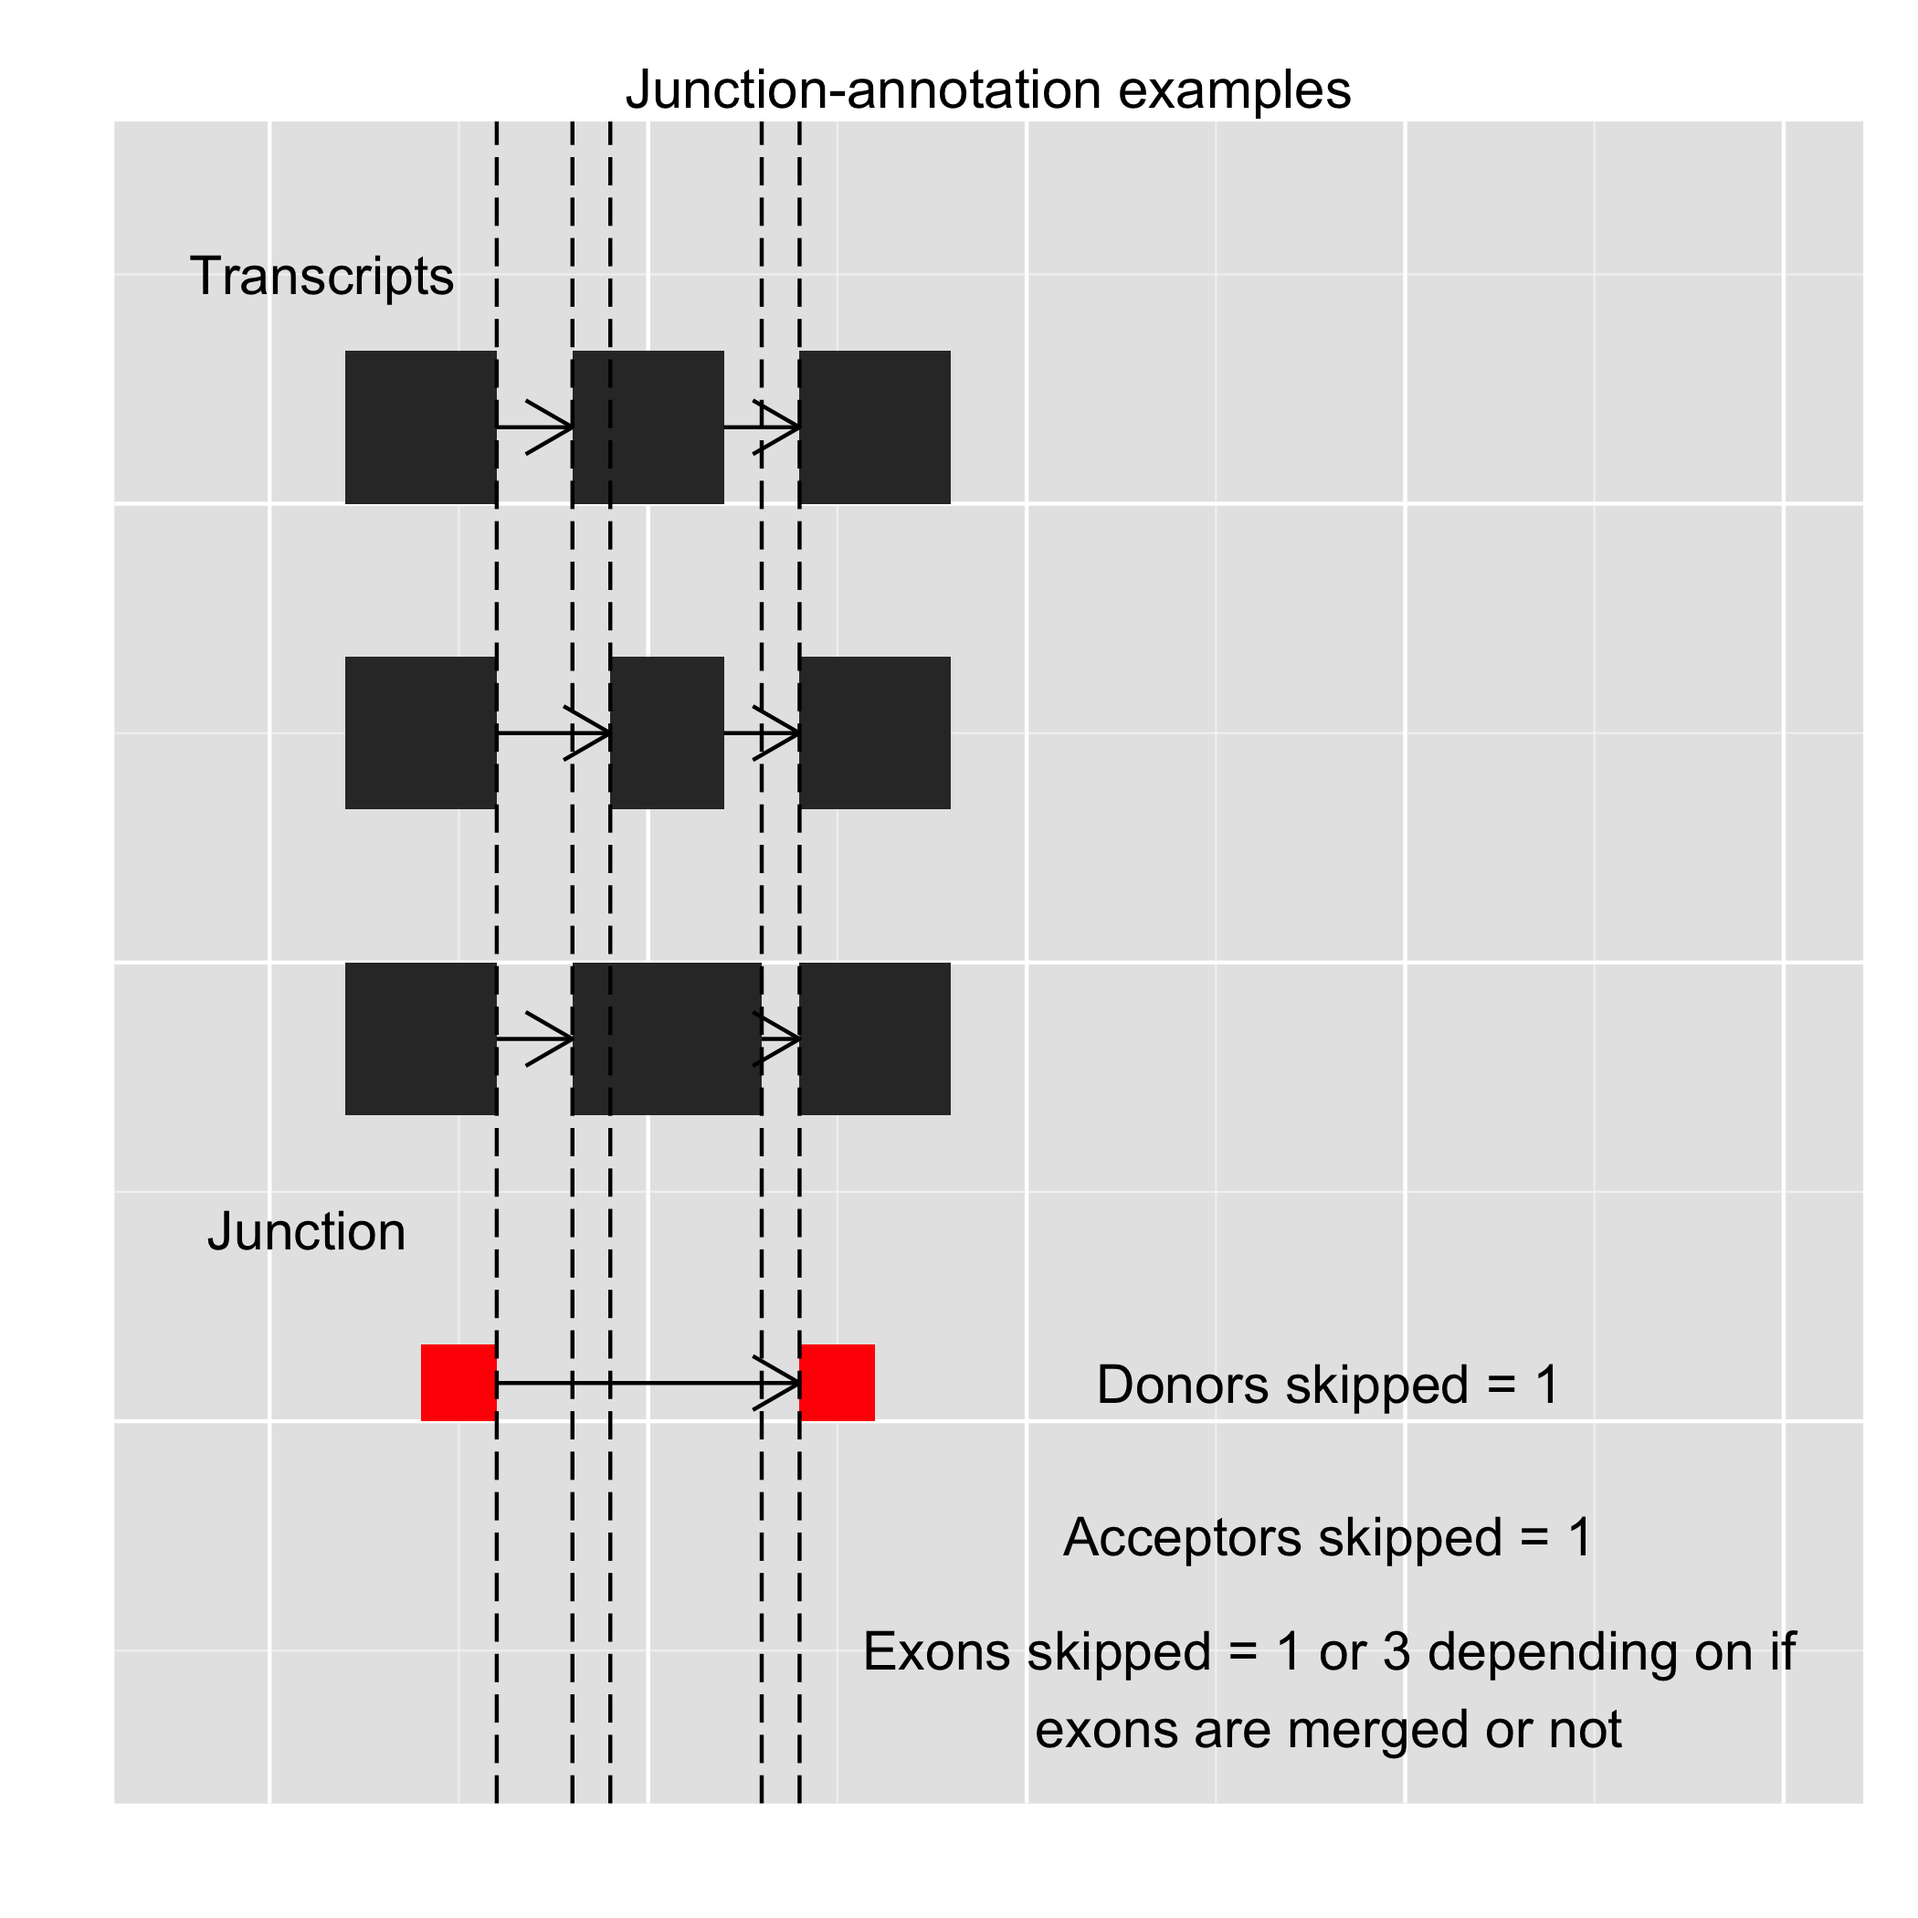
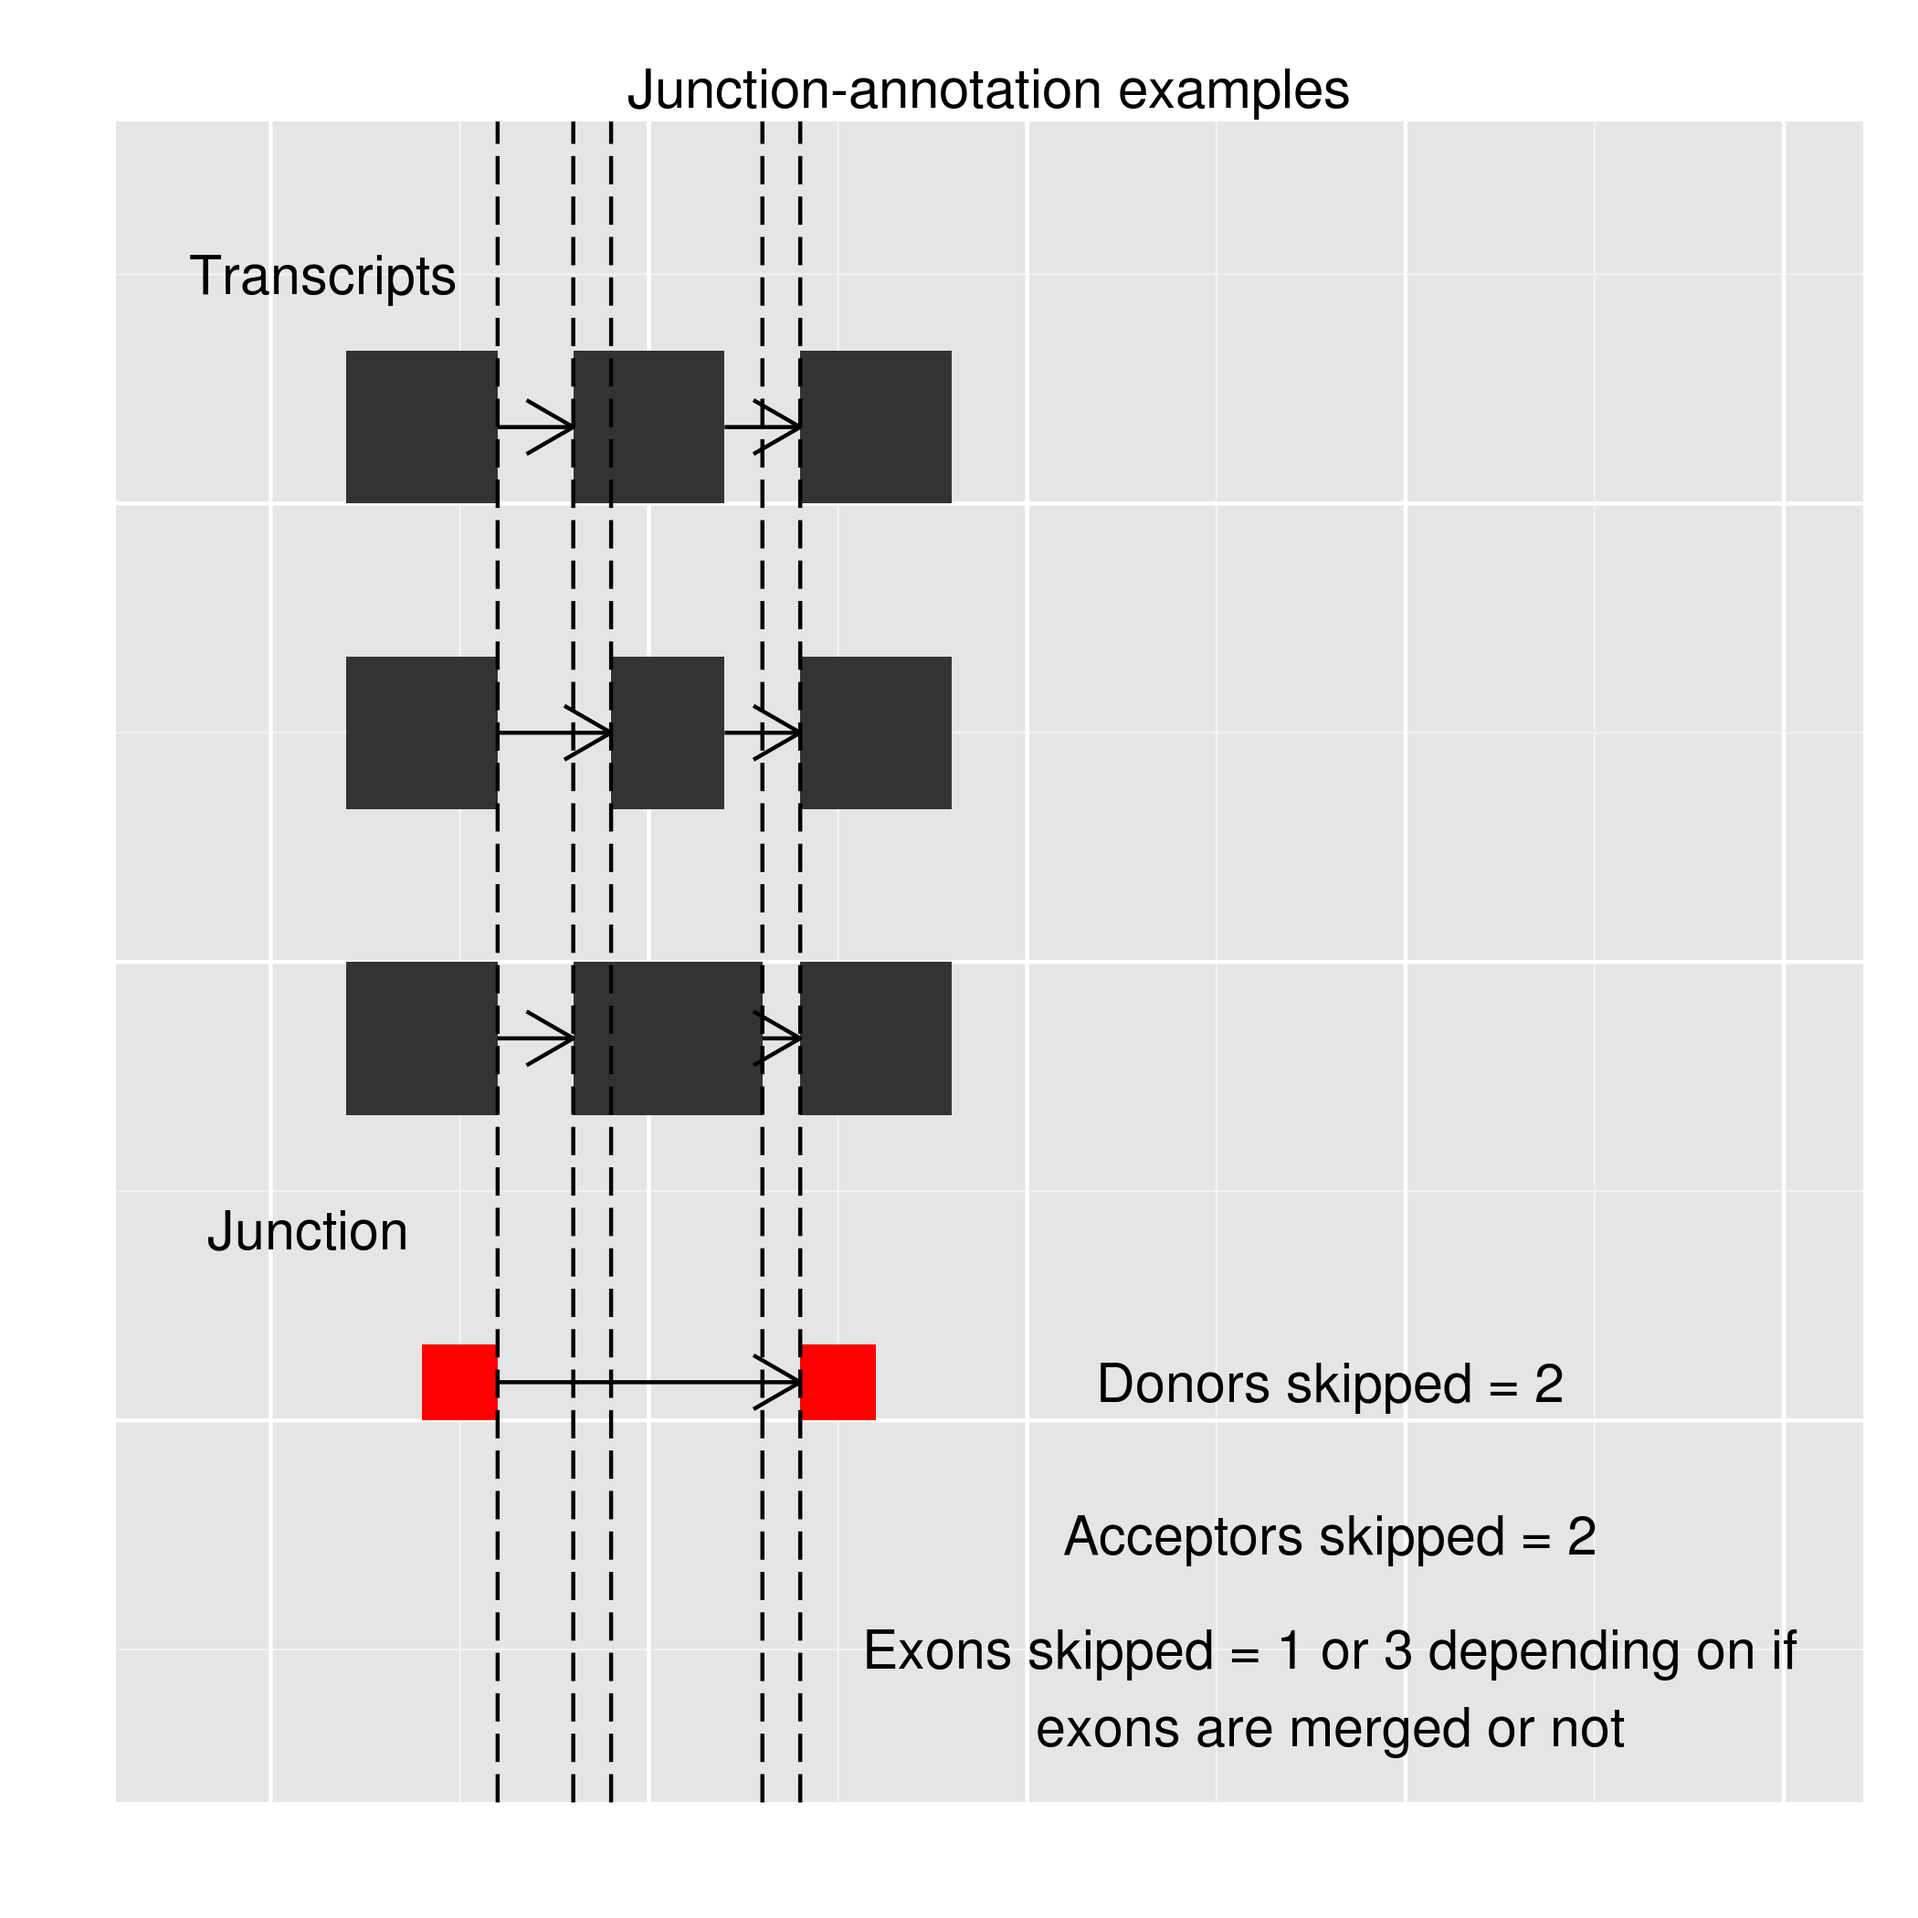
Update examples.

diff --git a/docs/examples.md b/docs/examples.md
@@ -42,8 +42,18 @@ The ends of this junction are hence not known donor/acceptor sites according to 
 
 ![Anchor-annotation example][anchor_annotation]
 
-####Annotating a junction
+####Annotating a junction with number of donors/acceptors/exons skipped
+Exon skipping is a form of RNA splicing that can be identified using RNAseq data. It is hence useful
+to compute for every observed putative exon-exon junction, the number of exons skipped, the number of
+known donor sites skipped and the number of known acceptor sites skipped. The known exons, donors and
+acceptors are calculated from the user supplied GTF file.
 
+In the example shown below, the observed junction has skipped 2 known donor sites and 2 known acceptor sites.
+For the number of exons skipped we consider two situations. The second exon in all the three transcripts overlap,
+if these overlapping exons are merged together, the number of exons skipped is just 1. If these three exons are
+considered to be different the number of exons skipped is 3. We try and provide both these annotations.
 
 ![Junction-annotation example][junction_annotation]
 
+If any of the examples are not clear or if you would like more information please feel free to open an issue on GitHub [here](https://github.com/griffithlab/regtools)
+or post on the discussion page [here.](https://groups.google.com/d/forum/regtools)
